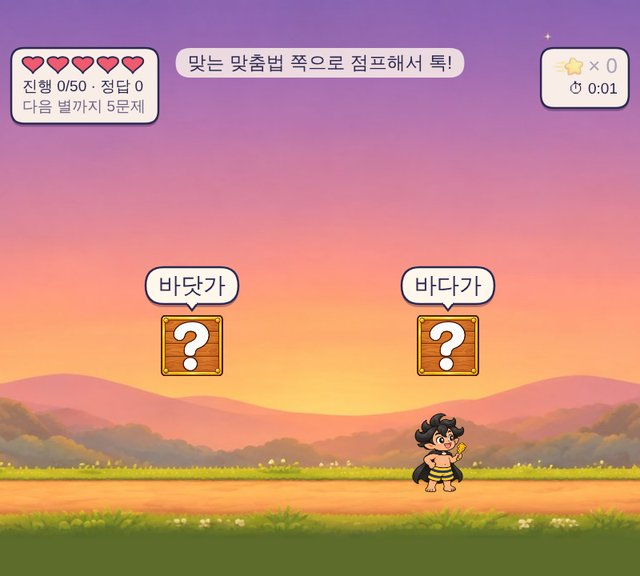
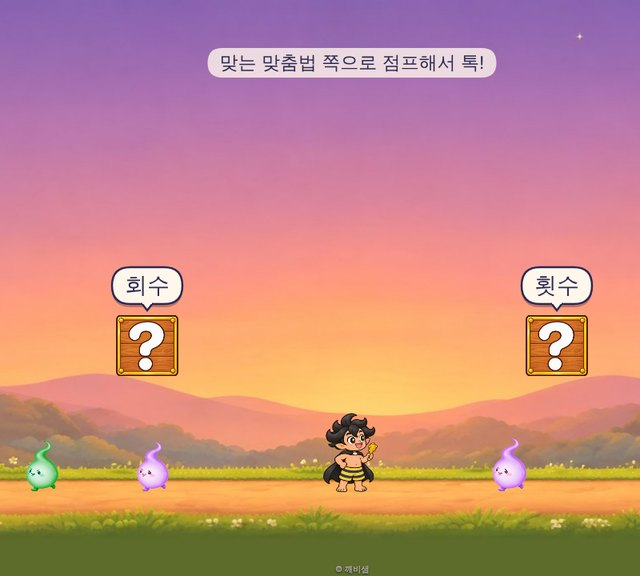
홈: 맞춤법·영어 타자 썸네일을 게임 장면으로 (#117)
* 홈 화면: 깨비샘 캐릭터와 새 사이트 이름(깨비샘과 쉬는 시간)

Claude-Session: https://claude.ai/code/session_01TJDp5XNDx63cZsB8aKiCUZ

* 홈 화면: 새 로고로 교체

Claude-Session: https://claude.ai/code/session_01TJDp5XNDx63cZsB8aKiCUZ

* 맞춤법 게임: 깨비샘 캐릭터와 새 로고 (깨비샘의 한글 맞춤법 대소동)

Claude-Session: https://claude.ai/code/session_01TJDp5XNDx63cZsB8aKiCUZ

* 영어 타자 연습: 깨비샘 캐릭터와 새 로고 (깨비샘의 영어 타자 연습)

Claude-Session: https://claude.ai/code/session_01TJDp5XNDx63cZsB8aKiCUZ

* 국기 맞히기: 깨비샘 캐릭터와 새 로고 (깨비샘의 국기 맞히기)

Claude-Session: https://claude.ai/code/session_01TJDp5XNDx63cZsB8aKiCUZ

* 블록 쌓기: 깨비샘 캐릭터와 새 로고 (깨비샘의 블록 쌓기)

Claude-Session: https://claude.ai/code/session_01TJDp5XNDx63cZsB8aKiCUZ

* 오목 대결: 깨비샘 캐릭터, 스티커, 새 로고 (깨비샘의 오목 대결)

Claude-Session: https://claude.ai/code/session_01TJDp5XNDx63cZsB8aKiCUZ

* 홈 화면: 로고 크게, 휴대폰 카드 썸네일을 원래 비율(10:9)로

Claude-Session: https://claude.ai/code/session_01TJDp5XNDx63cZsB8aKiCUZ

* 홈 화면: 인스타그램 계정 ggaebilog로 변경

Claude-Session: https://claude.ai/code/session_01TJDp5XNDx63cZsB8aKiCUZ

* 블록 쌓기: 제목 위 빼꼼 깨비샘 빼기

Claude-Session: https://claude.ai/code/session_01TJDp5XNDx63cZsB8aKiCUZ

* 알까기: 깨비샘 캐릭터와 새 로고 (깨비샘의 알까기)

Claude-Session: https://claude.ai/code/session_01TJDp5XNDx63cZsB8aKiCUZ

* 블록 쌓기: 블록이 들어간 새 로고

Claude-Session: https://claude.ai/code/session_01TJDp5XNDx63cZsB8aKiCUZ

* 맞춤법 게임: 새 로고로 교체

Claude-Session: https://claude.ai/code/session_01TJDp5XNDx63cZsB8aKiCUZ

* Use new 깨비샘 face (yellow circle) for site icons and face-64
[…]

diff --git a/index.html b/index.html
@@ -163,13 +163,13 @@ body.adm-edit .adm-num{display:flex}
     </a>
     <a class="game" href="spelling/">
       <span class="adm-num"></span>
-      <img src="spelling/thumb.jpg" alt="깨비샘의 한글 맞춤법 대소동 게임 화면">
+      <img src="spelling/thumb.jpg?v=3" alt="깨비샘의 한글 맞춤법 대소동 게임 화면">
       <div class="title"><b>깨비샘의 한글 맞춤법 대소동</b></div>
       <p>낱말과 빈칸 문장, 옳은 맞춤법 블록을 톡! 50문제에 도전!</p>
     </a>
     <a class="game" href="typing/">
       <span class="adm-num"></span>
-      <img src="typing/thumb.jpg?v=2" alt="깨비샘의 영어 타자 연습 게임 화면">
+      <img src="typing/thumb.jpg?v=3" alt="깨비샘의 영어 타자 연습 게임 화면">
       <div class="title"><b>깨비샘의 영어 타자 연습</b></div>
       <p>내려오는 영어 단어를 키보드로 톡톡! 컴퓨터에서 즐겨요.</p>
     </a>
